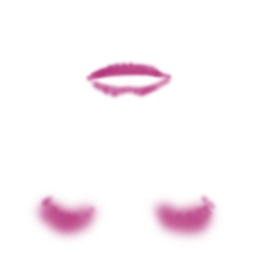
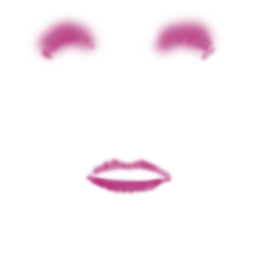
fix uv coordinates

diff --git a/public/js/faceModel.js b/public/js/faceModel.js
@@ -638,177 +638,177 @@ function drawFaceMask(points, shift, boxWidth, boxHeight, textureImg) {
     //TODO テクスチャが上下逆さま。要修正。
     const uvsCoord = [
       0.01,
-      0.24,
-      0.02,
-      0.38,
-      0.04,
-      0.52,
-      0.08,
-      0.64,
-      0.12,
       0.76,
+      0.02,
+      0.62,
+      0.04,
+      0.48,
+      0.08,
+      0.36,
+      0.12,
+      0.24,
       0.18,
-      0.86,
+      0.14,
       0.26,
+      0.08,
+      0.36,
+      0.04,
+      0.5,
+      0.02,
+      0.64,
+      0.04,
+      0.74,
+      0.08,
+      0.82,
+      0.14,
+      0.88,
+      0.24,
       0.92,
       0.36,
       0.96,
-      0.5,
-      0.98,
-      0.64,
-      0.96,
-      0.74,
-      0.92,
-      0.82,
-      0.86,
-      0.88,
-      0.76,
-      0.92,
-      0.64,
-      0.96,
-      0.52,
-      0.98,
-      0.38,
-      0.99,
-      0.24,
-      0.08,
-      0.1,
-      0.15,
-      0.04,
-      0.22,
-      0.01,
-      0.3,
-      0.01,
-      0.38,
-      0.04,
-      0.62,
-      0.04,
-      0.7,
-      0.01,
-      0.78,
-      0.01,
-      0.85,
-      0.04,
-      0.92,
-      0.1,
-      0.5,
-      0.18,
-      0.5,
-      0.26,
-      0.5,
-      0.34,
-      0.5,
-      0.42,
-      0.43,
       0.48,
+      0.98,
+      0.62,
+      0.99,
+      0.76,
+      0.08,
+      0.9,
+      0.15,
+      0.96,
+      0.22,
+      0.99,
+      0.3,
+      0.99,
+      0.38,
+      0.96,
+      0.62,
+      0.96,
+      0.7,
+      0.99,
+      0.78,
+      0.99,
+      0.85,
+      0.96,
+      0.92,
+      0.9,
+      0.5,
+      0.82,
+      0.5,
+      0.74,
+      0.5,
+      0.66,
+      0.5,
+      0.58,
+      0.43,
+      0.52,
       0.46,
-      0.49,
+      0.51,
       0.5,
       0.5,
       0.54,
-      0.49,
+      0.51,
       0.57,
-      0.48,
+      0.52,
       0.2,
-      0.2,
-      0.26,
-      0.16,
-      0.32,
-      0.16,
-      0.38,
-      0.2,
-      0.32,
-      0.24,
-      0.26,
-      0.24,
-      0.62,
-      0.2,
-      0.68,
-      0.16,
-      0.74,
-      0.16,
       0.8,
-      0.2,
-      0.74,
-      0.24,
-      0.68,
-      0.24,
+      0.26,
+      0.84,
       0.32,
-      0.68,
-      0.39,
-      0.63,
-      0.45,
-      0.6,
-      0.5,
-      0.62,
-      0.55,
-      0.6,
-      0.61,
-      0.63,
-      0.68,
-      0.68,
-      0.64,
-      0.71,
-      0.59,
-      0.74,
-      0.53,
-      0.76,
-      0.47,
-      0.76,
-      0.41,
-      0.74,
-      0.36,
-      0.71,
-      0.41,
-      0.66,
-      0.47,
-      0.65,
-      0.53,
-      0.65,
-      0.59,
-      0.66,
-      0.55,
-      0.69,
-      0.5,
-      0.7,
-      0.45,
-      0.69,
-      0.45,
-      0.34,
+      0.84,
       0.38,
-      0.34,
-      0.35,
-      0.35,
+      0.8,
       0.32,
-      0.35,
+      0.76,
+      0.26,
+      0.76,
+      0.62,
+      0.8,
+      0.68,
+      0.84,
+      0.74,
+      0.84,
+      0.8,
+      0.8,
+      0.74,
+      0.76,
+      0.68,
+      0.76,
+      0.32,
+      0.32,
+      0.39,
+      0.37,
+      0.45,
+      0.4,
+      0.5,
+      0.38,
+      0.55,
+      0.4,
+      0.61,
+      0.37,
+      0.68,
+      0.32,
+      0.64,
       0.29,
-      0.34,
-      0.2,
+      0.59,
+      0.26,
+      0.53,
+      0.24,
+      0.47,
+      0.24,
+      0.41,
+      0.26,
       0.36,
+      0.29,
+      0.41,
+      0.34,
+      0.47,
+      0.35,
+      0.53,
+      0.35,
+      0.59,
+      0.34,
+      0.55,
+      0.31,
+      0.5,
+      0.3,
+      0.45,
+      0.31,
+      0.45,
+      0.66,
+      0.38,
+      0.66,
+      0.35,
+      0.65,
+      0.32,
+      0.65,
+      0.29,
+      0.66,
+      0.2,
+      0.64,
       0.21,
-      0.43,
+      0.57,
       0.22,
       0.5,
       0.24,
-      0.56,
+      0.44,
       0.55,
-      0.34,
+      0.66,
       0.62,
-      0.34,
+      0.66,
       0.65,
-      0.35,
+      0.65,
       0.68,
-      0.35,
+      0.65,
       0.71,
-      0.34,
+      0.66,
       0.8,
-      0.36,
+      0.64,
       0.79,
-      0.43,
+      0.57,
       0.78,
       0.5,
       0.76,
-      0.56
+      0.44
     ];
 
     // 各頂点のテクスチャ座標

diff --git a/src/components/video/Face.vue b/src/components/video/Face.vue
@@ -1,13 +1,11 @@
 <template>
-  <div class="face">
-    <canvas
-      ref="face"
-      class="overlay face"
-      id="face"
-      :width="canvas_rect.width"
-      :height="canvas_rect.height"
-    />
-  </div>
+  <canvas
+    ref="face"
+    class="overlay face"
+    id="face"
+    :width="canvas_rect.width"
+    :height="canvas_rect.height"
+  />
 </template>
 <script>
 import * as _ from "lodash";
@@ -68,8 +66,8 @@ export default {
 
           const boxWidth = newValue.eyes.result.landmarks.imageWidth;
           const boxHeight = newValue.eyes.result.landmarks.imageHeight;
-          const textureImg = "wireframe.png";
-          //この関数はpublic/js/faceModel.jsにある
+          const textureImg = "eyeshadow01.png";
+          //drawFaceMask は public/js/faceModel.js から
           drawFaceMask(points, shift, boxWidth, boxHeight, textureImg); // eslint-disable-line
         }
       }
